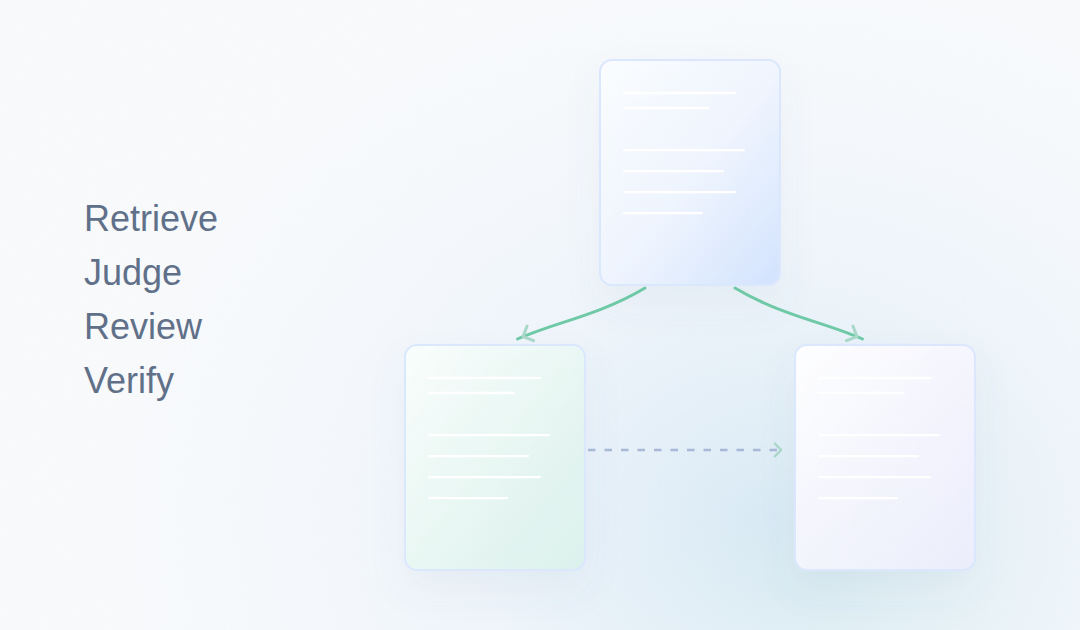
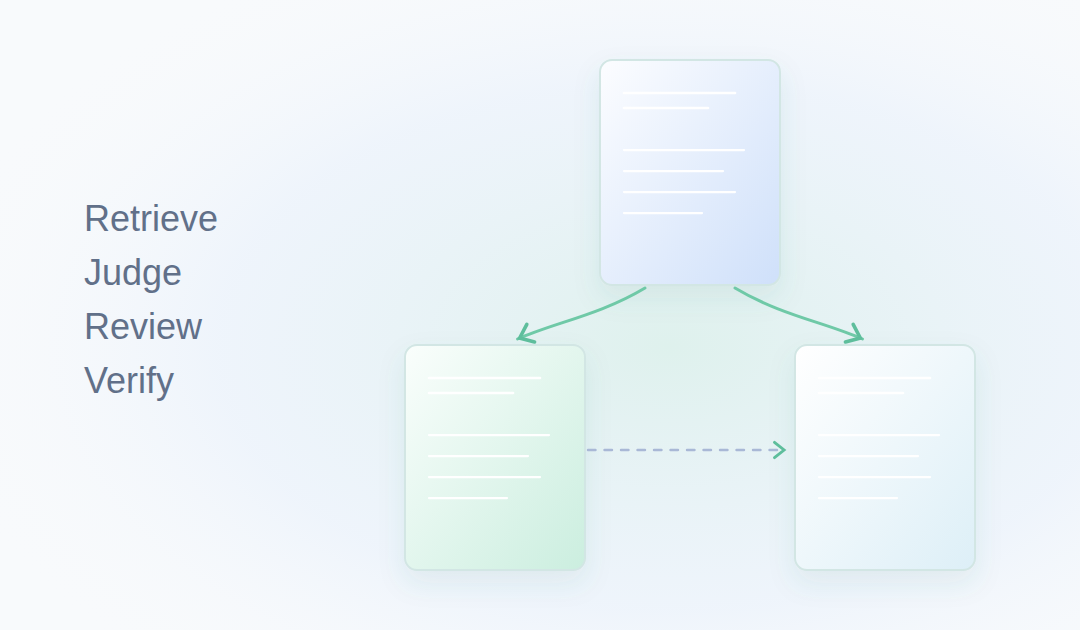
Restore SVG index cards for the two feature posts
Each post again has an SVG card like the rest of the blog. The SVGs are
drawn with their own compact definitions and palettes instead of a copy of
the shared illustration defs; the PNG share images are re-rendered from them.

Claude-Session: https://claude.ai/code/session_0176CDGyhAhv659PY41GM4D1

diff --git a/frontend/lib/marketing-content/blog-posts/internal-links.ts b/frontend/lib/marketing-content/blog-posts/internal-links.ts
@@ -11,6 +11,7 @@ export const POST_INTERNAL_LINKS: BlogPost = {
   excerpt:
     'Internal linking is a decision problem before it is a writing problem: which related page would genuinely help this reader next?',
   image: '/blog/editorial/article-internal-links.png',
+  cardImage: '/blog/editorial/article-internal-links.svg',
   date: '2026-09-28',
   readTime: '7 min read',
   author: PRODUCT_HEAD.name,

diff --git a/frontend/lib/marketing-content/blog-posts/buyer-prompts.ts b/frontend/lib/marketing-content/blog-posts/buyer-prompts.ts
@@ -11,6 +11,7 @@ export const POST_BUYER_PROMPTS: BlogPost = {
   excerpt:
     'A useful AI-search prompt portfolio represents real buying decisions, not every question a model can invent.',
   image: '/blog/editorial/article-prompts.png',
+  cardImage: '/blog/editorial/article-prompts.svg',
   date: '2026-09-28',
   readTime: '8 min read',
   author: PRODUCT_HEAD.name,
